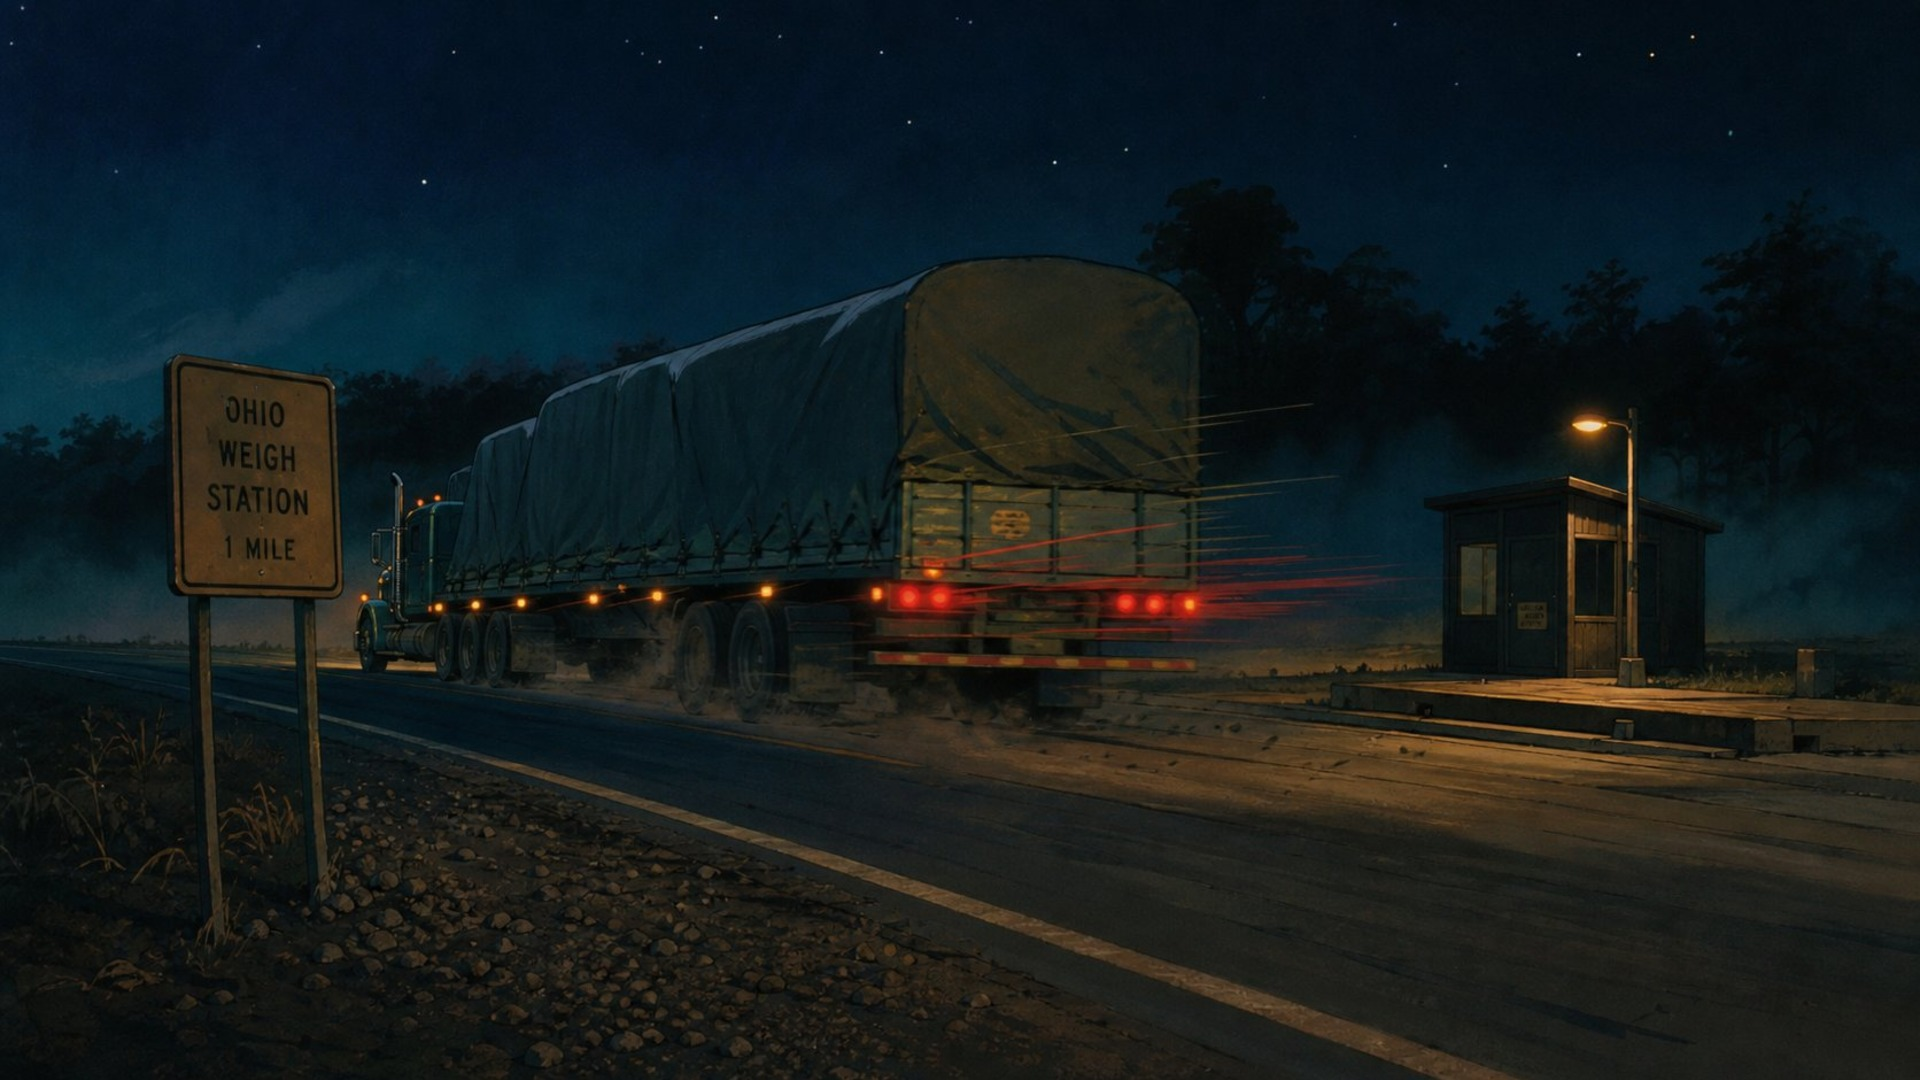
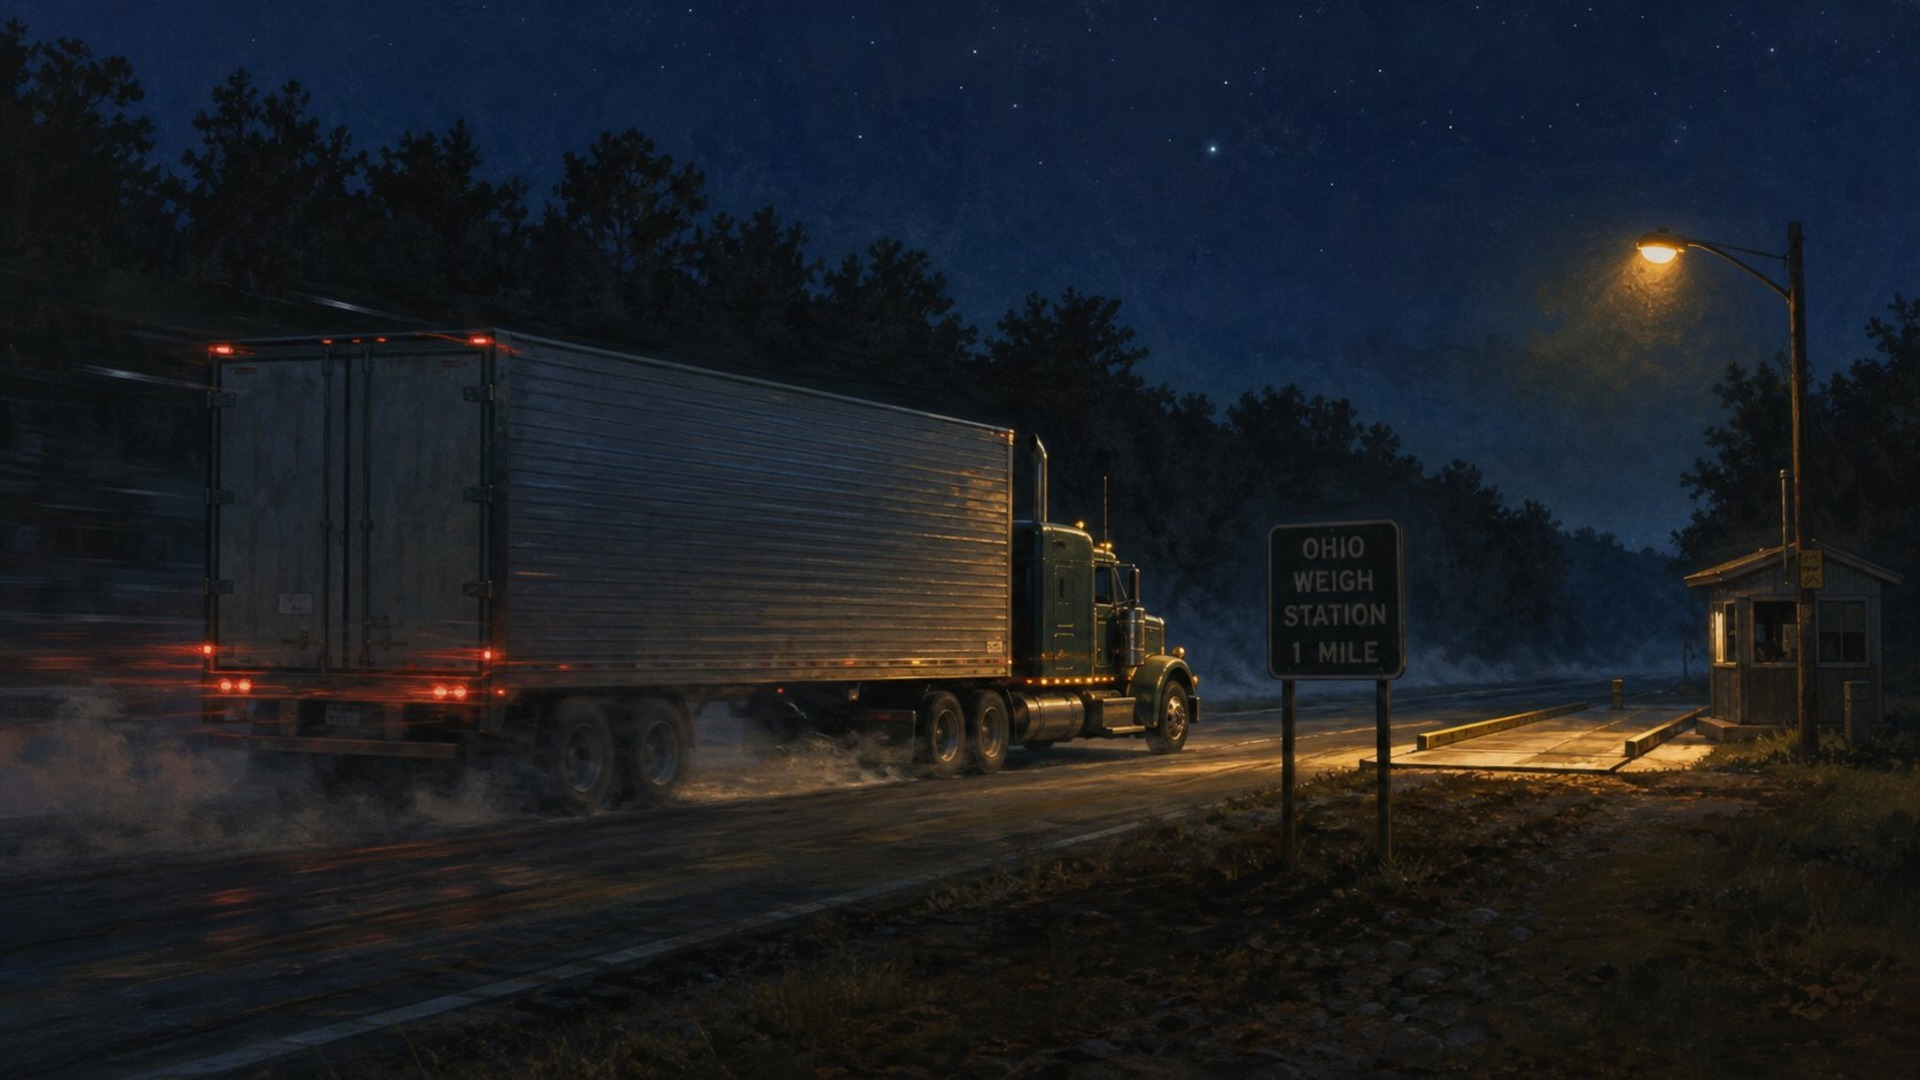
hangar: continuity retakes (10, 17, 23) and keyframes 24-30

diff --git a/docs/hangar/README.md b/docs/hangar/README.md
@@ -3,7 +3,7 @@
 A second bundled project, separate from Nobody's Witness. Open it from **Templates → "Untitled: the cold open"**; it adds itself once and never overwrites your edits.
 
 - **Source:** `docs/hangar/cold-open.fountain` is the screenplay. `npm run build:hangar` regenerates `public/projects/hangar-cold-open.json` from it (every shot's script quote must exist in the pages); `npm run verify:hangar` checks the bundle.
-- **Contents:** 8 scenes, 39 shots, 7 cast cards, notes (the look, the seeds, the rules, the open questions) and brainstorm cards. **20 of the 39 shots now carry their own draft keyframes** (shots 4-23, the hangar through the fall); the rest still hold their slot and say they need review. Nothing is borrowed from Nobody's Witness.
+- **Contents:** 8 scenes, 39 shots, 7 cast cards, notes (the look, the seeds, the rules, the open questions) and brainstorm cards. **27 of the 39 shots now carry their own draft keyframes** (shots 4-30, the hangar through the walk down the bank); the rest still hold their slot and say they need review. Nothing is borrowed from Nobody's Witness.
 - **Rules from the brief:** nobody says alien, robot or UFO; flares, never flashlight beams; one recording of "three quick, one slow" used in 1944, in the trailer and in the woods; never show what the pilot shot or what was in the crate.
 - **Open:** the title; the number of uncrossed marks (the film's clock); why it moves now; whether the airman crosses sides; whether the sergeant is the old pilot.
 - **Image rule:** the project's own pictures will live under `public/images/hangar/`. The never-overwrite, archive and `verify:images` rules in `CLAUDE.md` apply to them from the first picture.
@@ -35,4 +35,22 @@ Ten more generations, shots **14-23** in screenplay order: **14** the knee tappe
 - Same rules as pass 1: 1920x1080 16:9, `public/images/hangar/s3|s4|s5/`, Draft, generated from the script and the card alone.
 - **21 keeps the promise:** the open doors show darkness only; nothing in the trailer is drawn, so the skid and something inside stay equally possible.
 - Contact sheet: `public/images/hangar/reviews/swerve-2026-10-07.jpg`.
-- Next: shots 24-33 (inside the crate, the creek, the taillights, the flares, the cap on the asphalt, down through red fog).
+
+## Third pass: a continuity review, the creek and the flares (7 October 2026)
+
+The first twenty frames were reviewed against each other before anything new was drawn. Three breaks, all retaken in place with the first study archived to `public/images/hangar/archive/<scene>/<name>--v1.jpg`:
+
+| Shot | Break | Fix |
+| --- | --- | --- |
+| 10 | A tarped flatbed, but 20-22 are an enclosed dry van and the script needs rear doors that burst open | Redrawn as the ribbed dry van with hinged rear doors |
+| 17 | The nurse wore no cap, yet 19 has her cap fly out of the window | Redrawn with the white starched cap pinned on |
+| 23 | The crate tumbled as an open slatted box | Redrawn as shot 6's sealed, steel-banded plank crate |
+
+What the review found holding: the amber/crimson/blue-night light logic, the same two faces across 12/13/14, the guard booth in both 4 and 5, the stencil, and 21 showing only darkness behind the doors.
+
+Then seven new frames, **24-30**: inside the tumbling crate (light through the cracks and nothing else), the crate at rest in the creek, the taillights going round the bend, the flares and the sedan, the hand closing on the white cap, "Where is it?", and the walk down through red fog.
+
+- Known caveats, honest and small: **24** is deliberately near-abstract; **28**'s mirror glass reads rounder than the square mirror in **19**; the nurse's hair reads darker in the 17 retake than in its archived v1.
+- Flares only — no flashlight beams anywhere in scene 6, as the rules note requires.
+- Contact sheet: `public/images/hangar/reviews/creek-and-flares-2026-10-07.jpg`.
+- Remaining: **31-39** (the empty crate, the hollow in the straw, INERT in the water, the rows of marks, the newest stroke, the far corner, far off in the woods, only the airman hears, the flare sputtering out).
